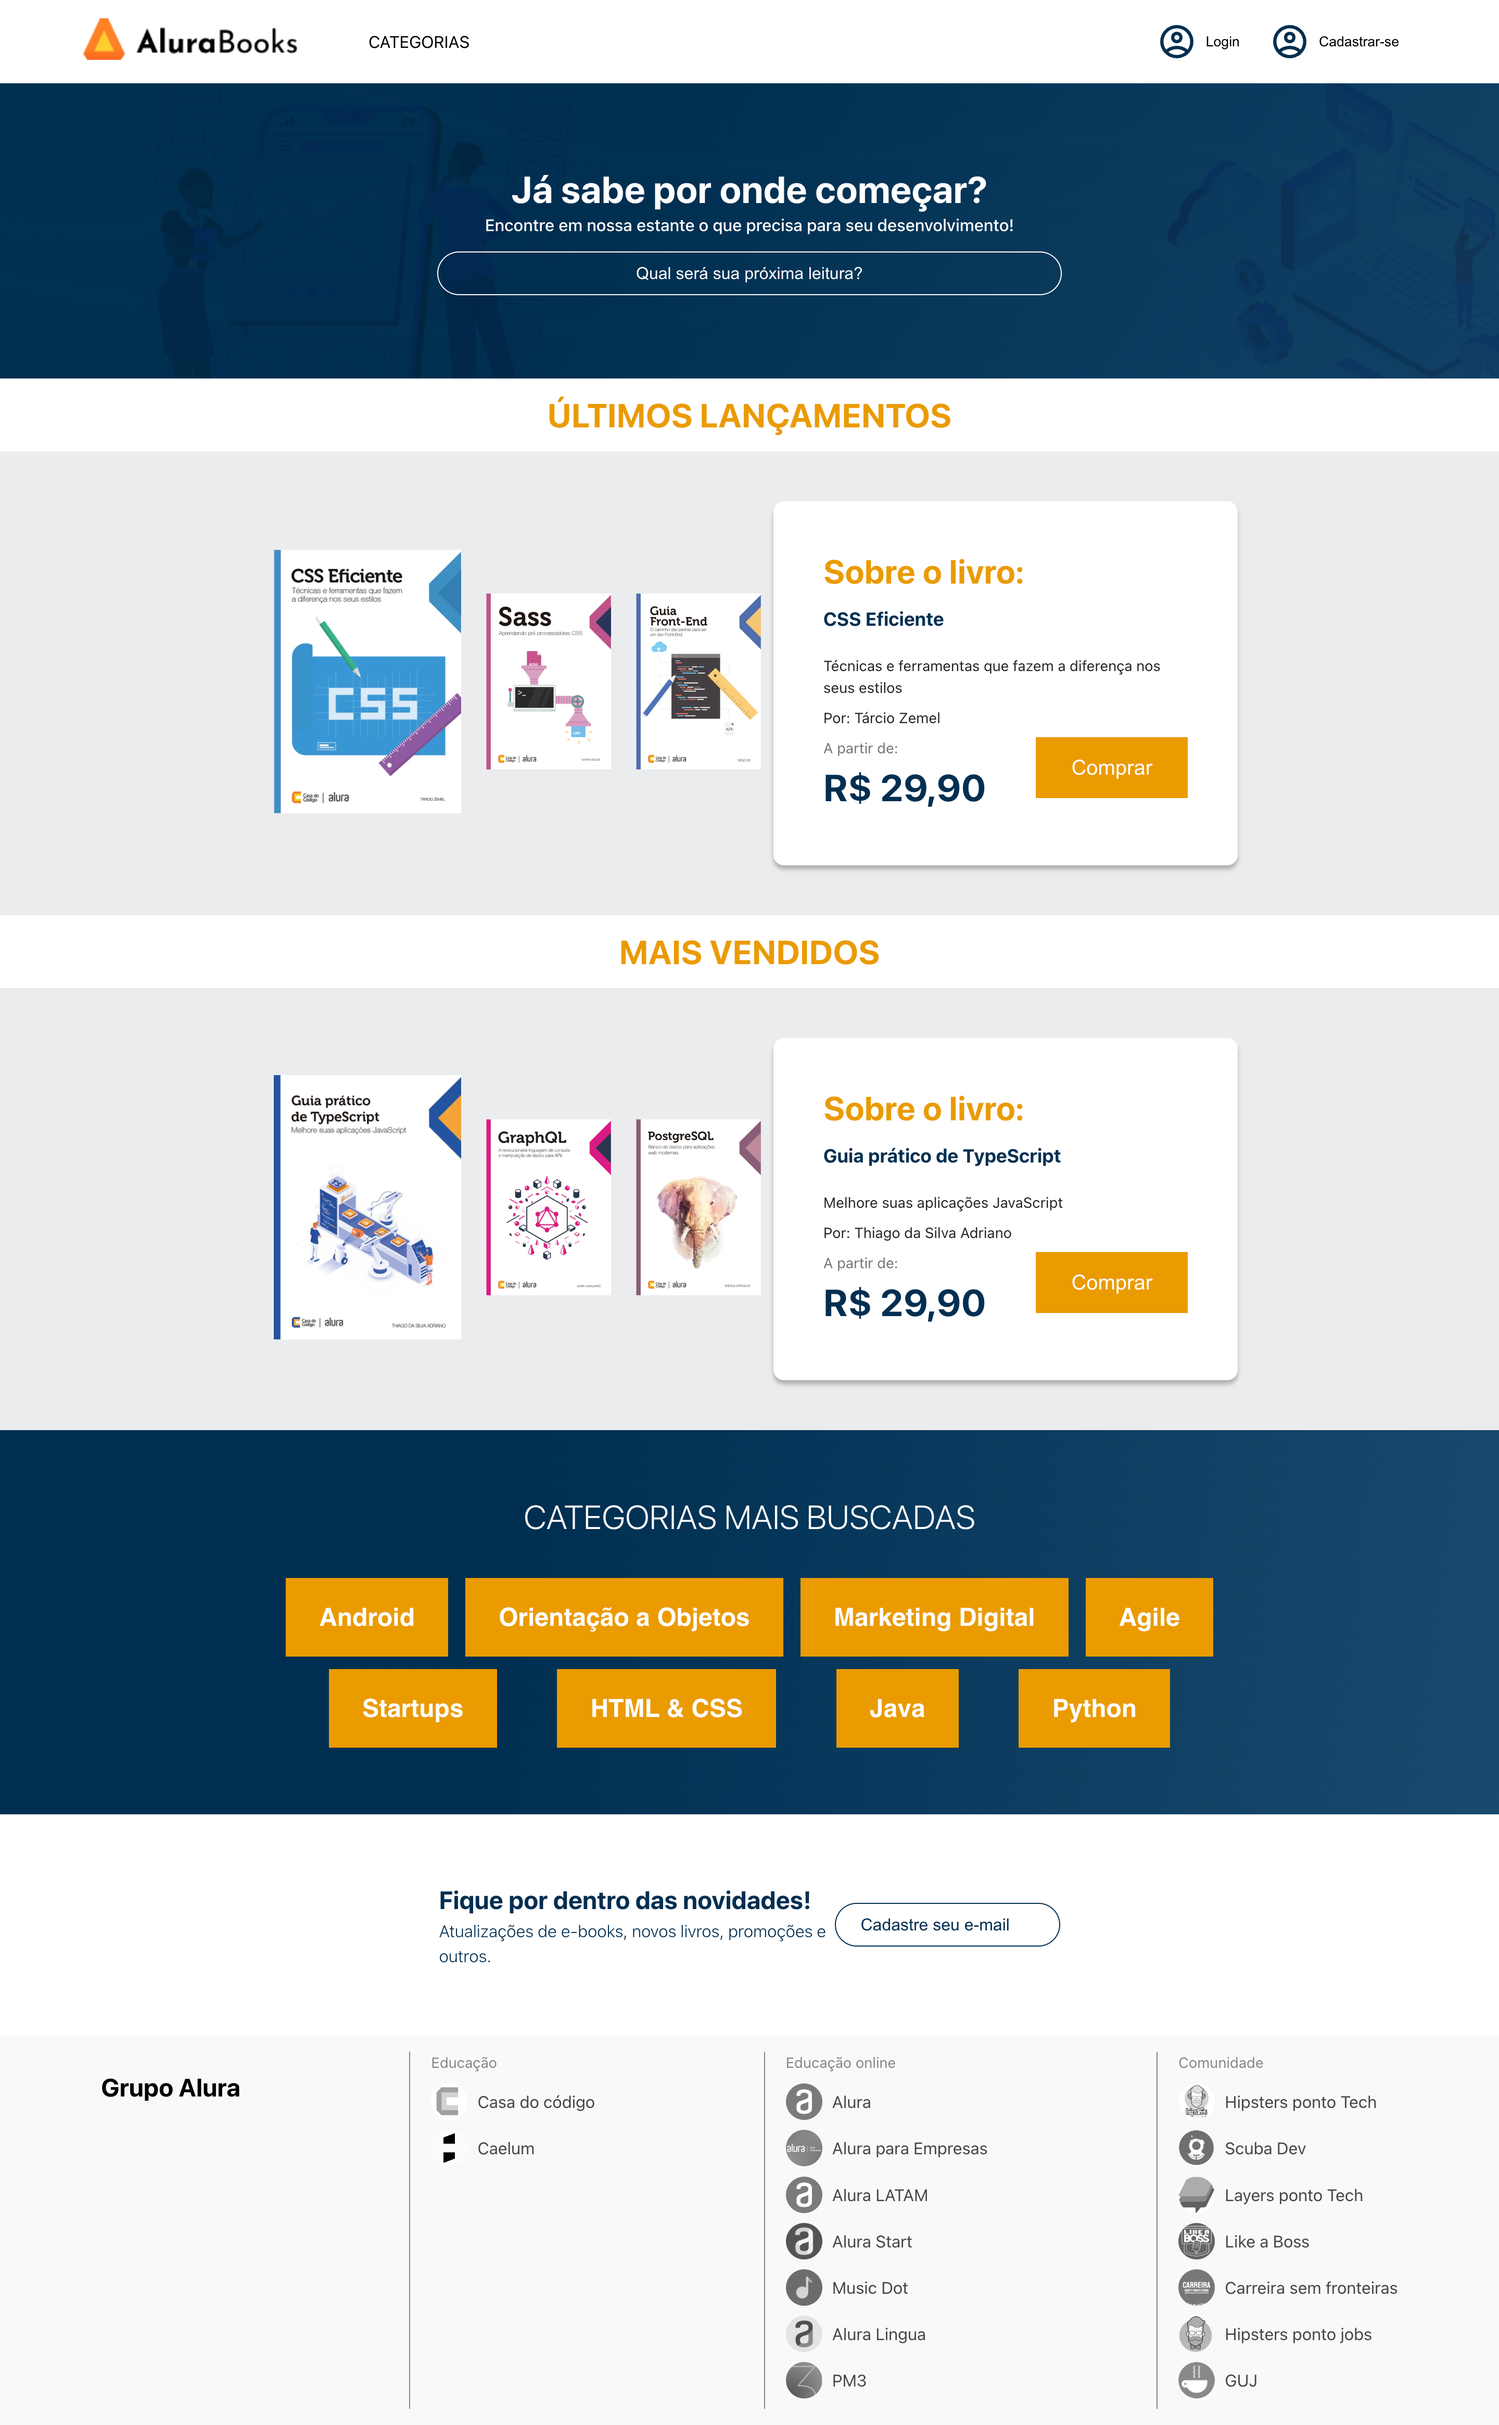
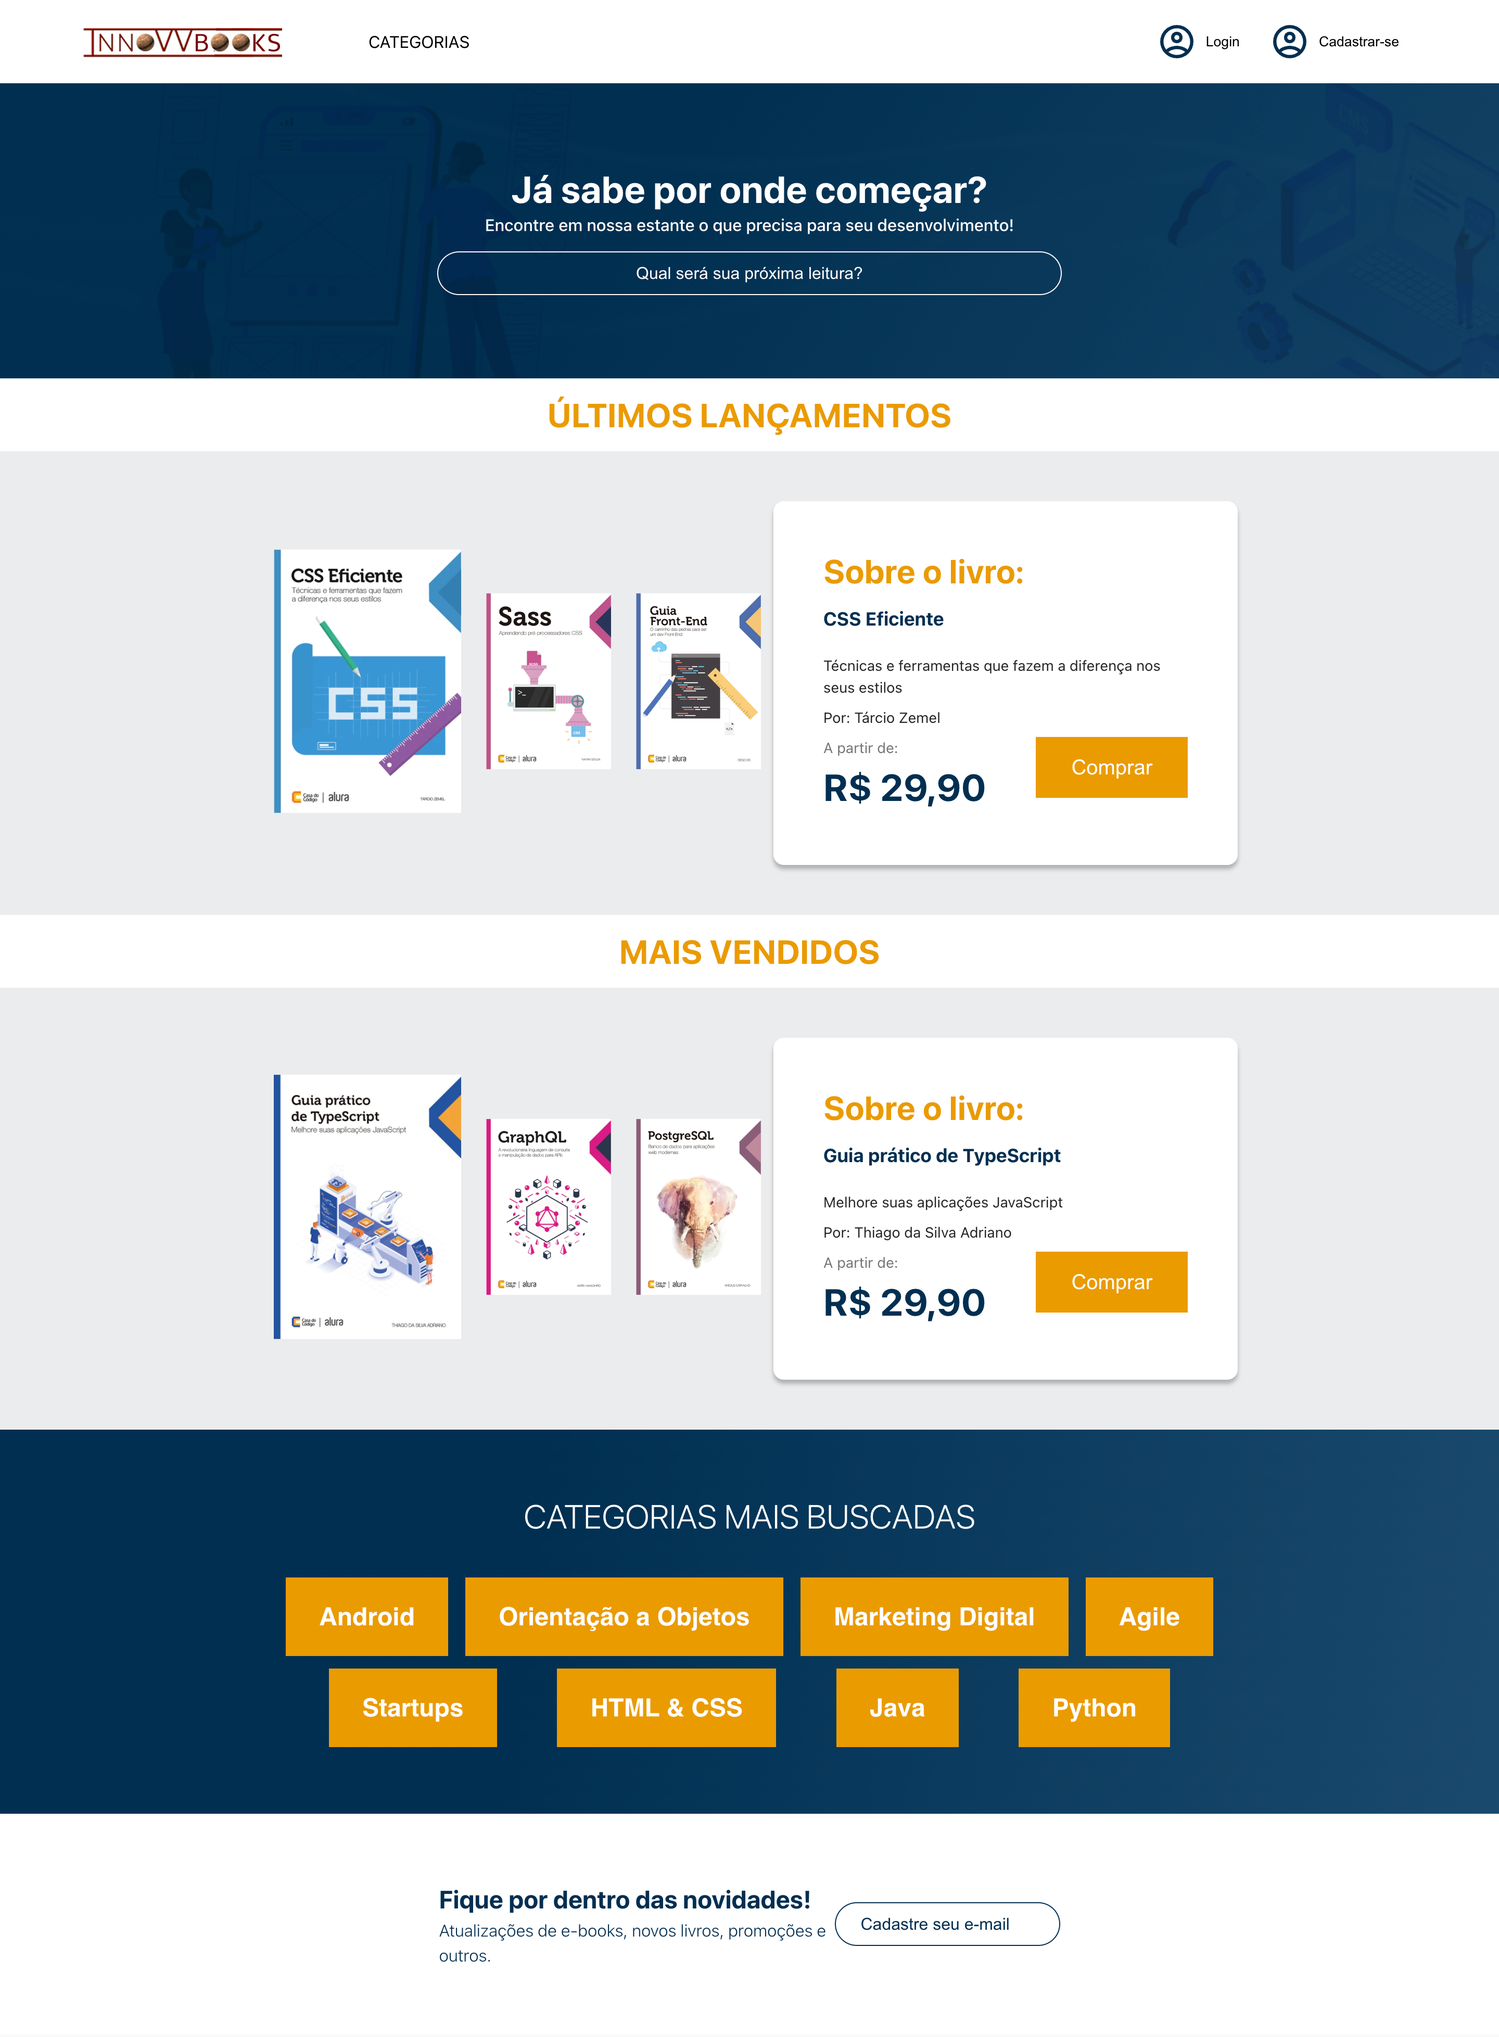
update rodape and navbar

diff --git a/frontend/src/componentes/Rodape/index.tsx b/frontend/src/componentes/Rodape/index.tsx
@@ -2,82 +2,16 @@ import './Rodape.css'
 
 const Rodape = () => {
     return (<footer className="rodape">
-        <h2 className="rodape__titulo">Grupo Alura</h2>
-        <ul className="lista-rodape">
-            <li className="lista-rodape__titulo">Educação</li>
-            <li className="lista-rodape__item">
-                <img src="/imagens/CasaDoCodigo.svg" alt="Logo da casa do código" />
-                <a href="#!" className="lista-rodape__link">Casa do código</a>
-            </li>
-            <li className="lista-rodape__item">
-                <img src="/imagens/Caelum.svg" alt="Logo da caelum" />
-                <a href="#!" className="lista-rodape__link">Caelum</a>
-            </li>
-        </ul>
-
-        <ul className="lista-rodape">
-            <li className="lista-rodape__titulo">Educação online</li>
-            <li className="lista-rodape__item">
-                <img src="/imagens/Alura.svg" alt="Logo da Alura" />
-                <a href="#!" className="lista-rodape__link">Alura</a>
-            </li>
-            <li className="lista-rodape__item">
-                <img src="/imagens/AluraEmpresas.svg" alt="Logo da Alura para Empresas" />
-                <a href="#!" className="lista-rodape__link">Alura para Empresas</a>
-            </li>
-            <li className="lista-rodape__item">
-                <img src="/imagens/AluraLATAM.svg" alt="Logo da Alura Latam" />
-                <a href="#!" className="lista-rodape__link">Alura LATAM</a>
-            </li>
-            <li className="lista-rodape__item">
-                <img src="/imagens/AluraStart.svg" alt="Logo da Alura START" />
-                <a href="#!" className="lista-rodape__link">Alura Start</a>
-            </li>
-            <li className="lista-rodape__item">
-                <img src="/imagens/MusicDot.svg" alt="Logo da Music Dot" />
-                <a href="#!" className="lista-rodape__link">Music Dot</a>
-            </li>
-            <li className="lista-rodape__item">
-                <img src="/imagens/AluraLingua.svg" alt="Logo da Alura Lingua" />
-                <a href="#!" className="lista-rodape__link">Alura Lingua</a>
-            </li>
-            <li className="lista-rodape__item">
-                <img src="/imagens/PM3.svg" alt="Logo da PM3" />
-                <a href="#!" className="lista-rodape__link">PM3</a>
-            </li>
-        </ul>
-
-        <ul className="lista-rodape">
-            <li className="lista-rodape__titulo">Comunidade</li>
-            <li className="lista-rodape__item">
-                <img src="/imagens/HipstersTech.svg" alt="Logo do Hipsters ponto Tech" />
-                <a href="#!" className="lista-rodape__link">Hipsters ponto Tech</a>
-            </li>
-            <li className="lista-rodape__item">
-                <img src="/imagens/ScubaDev.svg" alt="Logo do Scuba Dev" />
-                <a href="#!" className="lista-rodape__link">Scuba Dev</a>
-            </li>
-            <li className="lista-rodape__item">
-                <img src="/imagens/LayersTech.svg" alt="Logo do Layers ponto Tech" />
-                <a href="#!" className="lista-rodape__link">Layers ponto Tech</a>
-            </li>
-            <li className="lista-rodape__item">
-                <img src="/imagens/LikeABoss.svg" alt="Logo do Like a Boss" />
-                <a href="#!" className="lista-rodape__link">Like a Boss</a>
-            </li>
-            <li className="lista-rodape__item">
-                <img src="/imagens/CarreiraSemFronteira.svg" alt="Logo do Carreira sem fronteiras" />
-                <a href="#!" className="lista-rodape__link">Carreira sem fronteiras</a>
-            </li>
-            <li className="lista-rodape__item">
-                <img src="/imagens/HipstersJobs.svg" alt="Logo do Hipsters ponto jobs" />
-                <a href="#!" className="lista-rodape__link">Hipsters ponto jobs</a>
-            </li>
-            <li className="lista-rodape__item">
-                <img src="/imagens/GUJ.svg" alt="Logo do GUJ" />
-                <a href="#!" className="lista-rodape__link">GUJ</a>
-            </li>
-        </ul>
+        <div className="lista-rodape__item">
+          <h2 className="rodape__titulo">InnovvBooks</h2>
+          <img src="/imagens/logo-InnovvBooks.png" alt="InnovvBooks" />
+        </div>
+        <div className="lista-rodape__item">
+          <h3>Desenvolvido por <b>Innovvatio</b>.</h3>
+          <a href="https://www.innovvationet.com.br" className="lista-rodape__link">
+            <img src="/imagens/logoInnovvatio.png" alt="Innovvatio" />
+          </a>
+        </div>
     </footer>)
 }
 

diff --git a/frontend/src/componentes/Rodape/Rodape.css b/frontend/src/componentes/Rodape/Rodape.css
@@ -6,6 +6,10 @@ hr {
     background-color: var(--branco);
     padding: 1em;
     background: #F9F9F9;
+    display: flex;
+    flex-direction: column;
+    align-items: center;
+    justify-content: center;
 }
 
 .lista-rodape {
